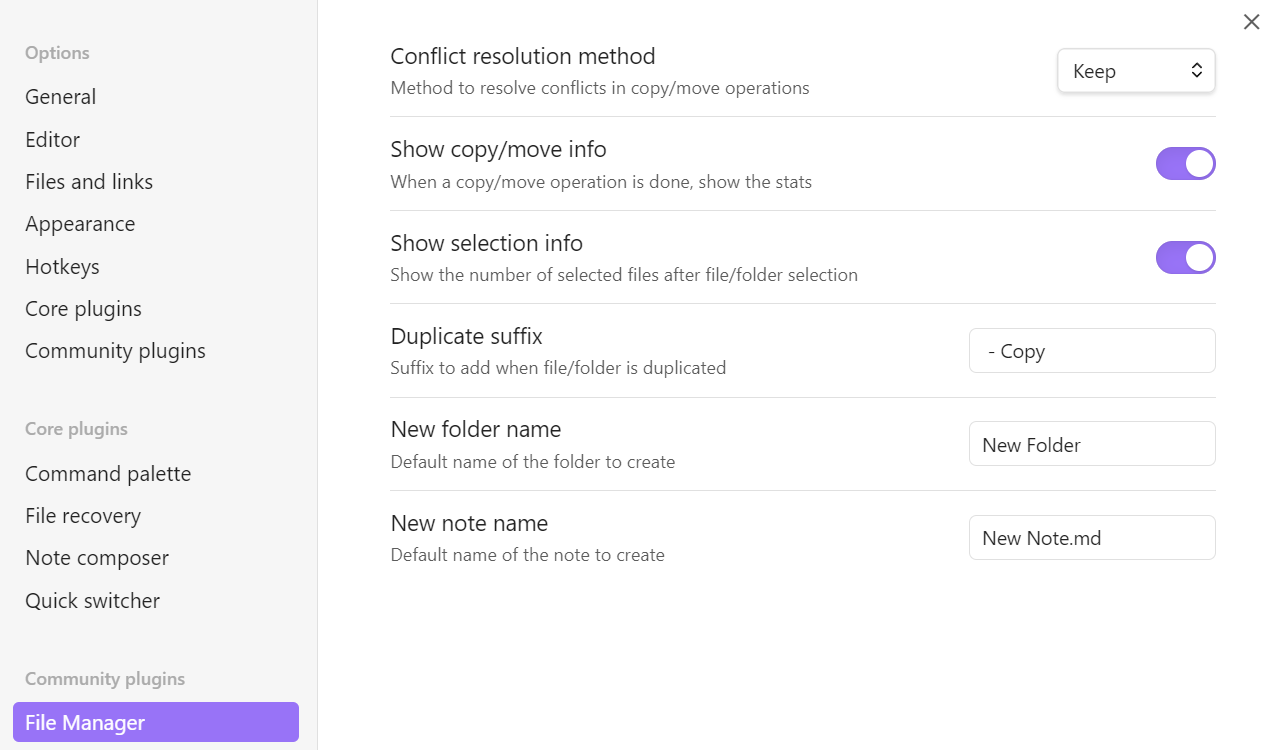
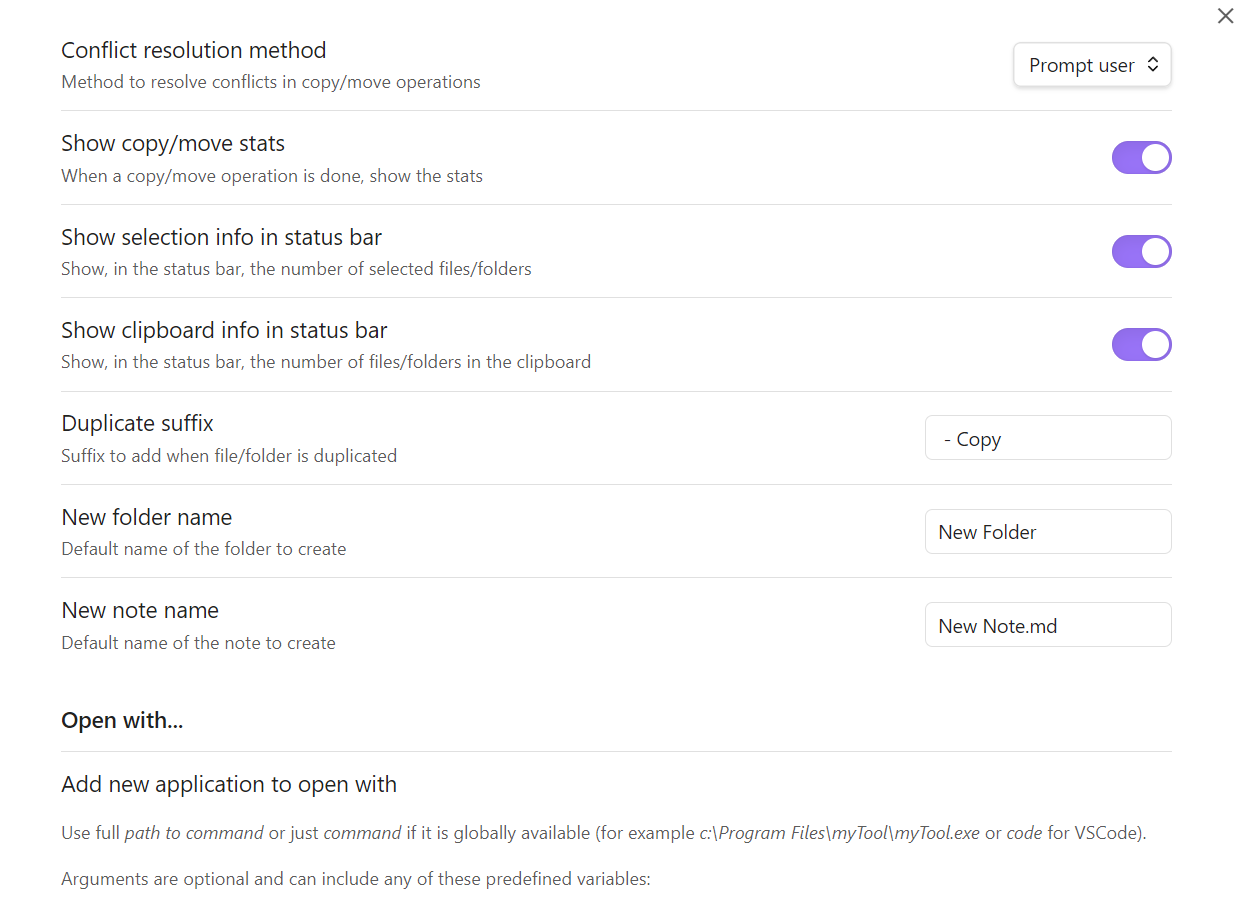
Improved readme.md

diff --git a/README.md b/README.md
@@ -1,23 +1,26 @@
 # File Manager Plugin for Obsidian
 
-This plugin enhances the Obsidian File Explorer by adding essential file management features. It introduces several new commands when the `File Explorer` panel is focused, allowing users to bind hotkeys to these operations. The goal is to enable complete file management within Obsidian using only the keyboard.
+This plugin enhances the Obsidian File Explorer by adding essential file management features. It introduces several new commands to interact with the `File Explorer`, allowing users to bind hotkeys to these operations. The goal is to enable complete file management within Obsidian using only the keyboard.
 
 ## Features
 
+-   **Open with**: Open file/folders with custom commands.
+-   **Go to file/folder**: Find and focus on a file/folder in the file explorer.
 -   **Create subfolder**: Create a subfolder of current folder.
 -   **Create folder**: Create sibling folder.
--   **Create note**: Create note in current folder.
+-   **Create note**: Create empty note in current folder.
 -   **Duplicate**: Duplicate file/folder.
 -   **Move**: Move selected files/folders to existing location.
 -   **Copy**: Copy selected files/folders to existing location.
 -   **Copy, Cut and Paste**: Copy or cut selected files/folders to clipboard and paste from it.
+-   **Clear Clipboard**: Clear clipboard.
 -   **Toggle Selection**: Toggle selection of file/folder.
 -   **Select All**: Select all files/folders.
--   **Deselect All**: Clear selection
 -   **Invert Selection**: Invert the current selection.
+-   **Deselect All**: Clear selection.
 -   **Rename**: Rename file/folder.
 
-### Conflict Resolution
+### Copy/Move Conflict Resolution
 
 When a file conflict arises, you can either be prompted to choose a resolution or apply a predefined method:
 
@@ -27,24 +30,45 @@ When a file conflict arises, you can either be prompted to choose a resolution o
 
 ## Usage
 
-> **IMPORTANT**: Only when you have the focus in the `File Explorer` panel, the following commands will be available.
+### File Explorer Commands
 
-### Commands
+> **NOTE**: Only when you have the focus in the `File Explorer` panel, the following commands will be available.
 
--   `Create a subfolder within the focused or active file/folder`.
--   `Create a folder as sibling of the focused or active file/folder`.
--   `Create a note within the focused or active folder`.
--   `Duplicate focused or active file/folder`,
--   `Copy selected files/folders to clipboard`,
--   `Paste files/folders from clipboard to selected folder`,
--   `Cut selected files/folders to clipboard`,
--   `Move selected files/folders to a new folder`.
--   `Copy selected files/folders to a new folder`.
--   `Select all siblings and children of the focused or active file/folder`.
--   `Toggle selection of the focused or active file/folder`.
--   `Clear selection`.
--   `Invert selection`.
--   `Rename focused or active file/folder`.
+-   `File Manager: Create a subfolder within the focused or active file/folder`.
+-   `File Manager: Create a folder as sibling of the focused or active file/folder`.
+-   `File Manager: Create a note within the focused or active folder`.
+-   `File Manager: Duplicate focused or active file/folder`,
+-   `File Manager: Copy selected files/folders to clipboard`,
+-   `File Manager: Cut selected files/folders to clipboard`,
+-   `File Manager: Paste files/folders from clipboard to selected folder`,
+-   `File Manager: Clear clipboard`,
+-   `File Manager: Move selected files/folders to a new folder`.
+-   `File Manager: Copy selected files/folders to a new folder`.
+-   `File Manager: Select all siblings and children of the focused or active file/folder`.
+-   `File Manager: Toggle selection of the focused or active file/folder`.
+-   `File Manager: Clear selection`.
+-   `File Manager: Invert selection`.
+-   `File Manager: Rename focused or active file/folder`.
+
+### Global Commands
+
+> **NOTE**: The following command is available if there is a file explorer in Obsidian.
+
+-   `File Manager: Go to file or folder in file explorer`.
+
+> **NOTE**: The following command is globally available. If the file explorer is active,
+> the focused or selected file/folder will be used to Open With. If not, the
+> current active document in Obsidian, will be used to Open With.
+
+-   `File Manager: Open with ...`
+
+Using the settings tab, new custom _open with_ commands can be created.
+
+![Open With](./assets/openwith.png)
+
+The _open with_ commands are also available in the _File Context Menu_ if option is selected in the settings.
+
+![Context Menu](./assets/contextmenu.png)
 
 ## Installation
 
@@ -76,5 +100,3 @@ This plugin is licensed under the MIT License.
 
 -   Implement **merge** for folders copy/move.
 -   After copying/moving files, autoselect files on destination.
--   Better UI feedback when copying or cutting files to clipboard.
--   Better information for files copied/moved.
